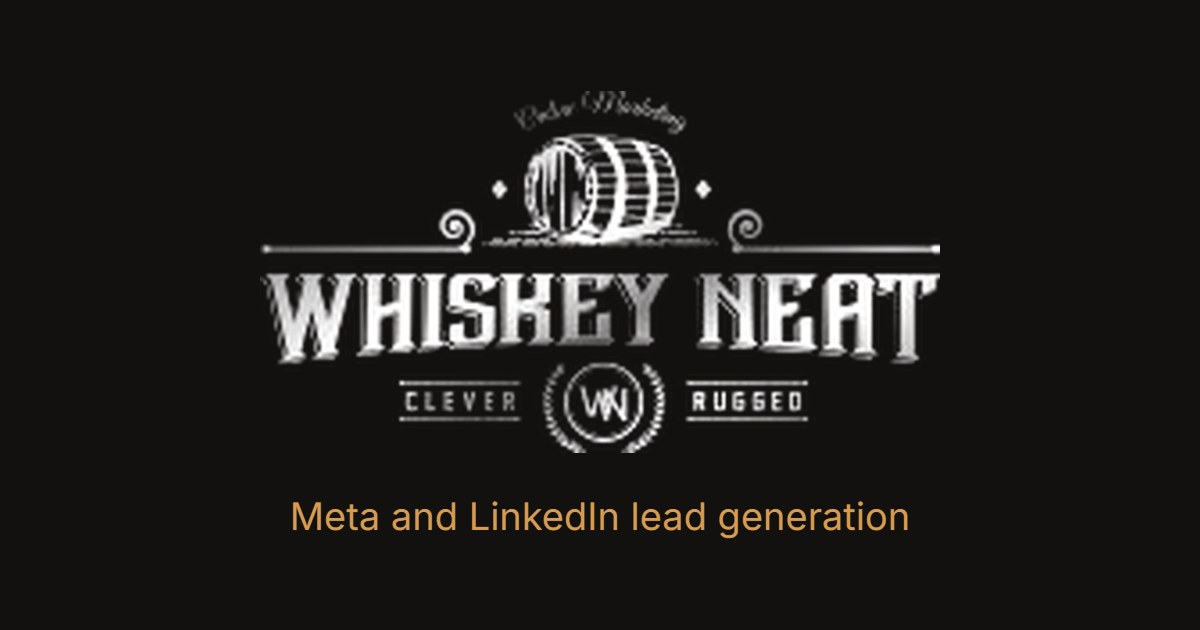
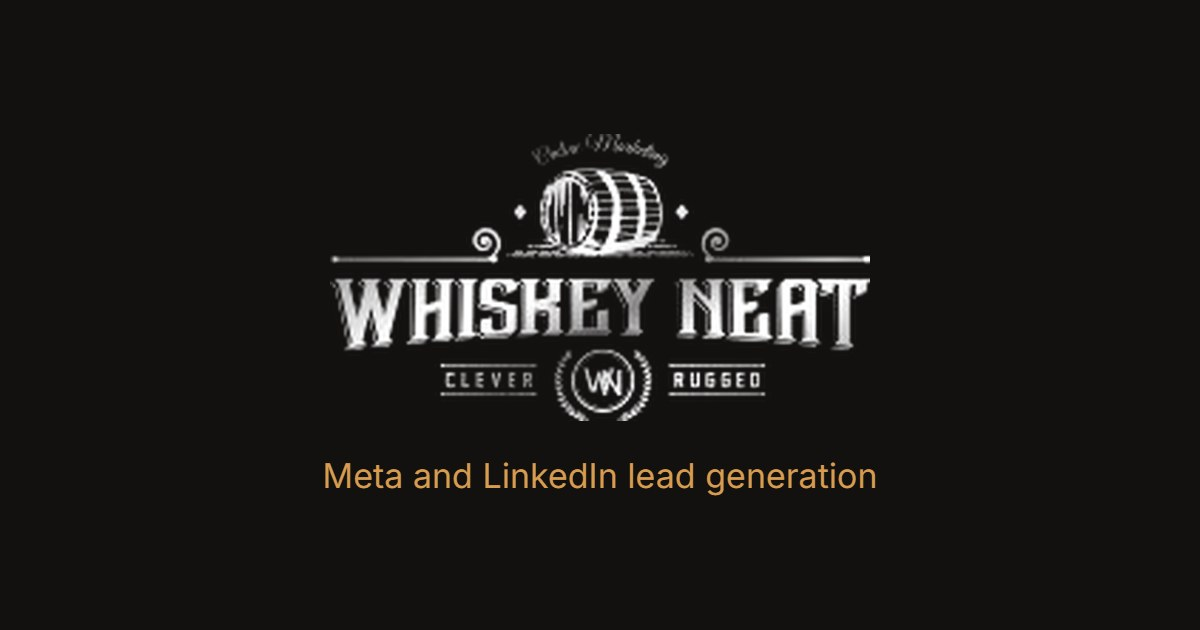
Preview card centred for Slack crop

Changed region(s): [[0.2158, 0.1508, 0.8017, 0.8746]]

diff --git a/index.html b/index.html
@@ -9,7 +9,7 @@
 <meta property="og:type" content="website">
 <meta property="og:title" content="Whiskey Neat">
 <meta property="og:description" content="Chuck Sharpsteen runs Meta and LinkedIn ads that bring more of the right leads to coaches, course creators and B2B companies.">
-<meta property="og:image" content="https://whiskeyneat.com/og.jpg">
+<meta property="og:image" content="https://whiskeyneat.com/og.jpg?v=2">
 <meta property="og:image:type" content="image/jpeg">
 <meta property="og:image:width" content="1200">
 <meta property="og:image:height" content="630">
@@ -17,7 +17,7 @@
 <meta name="twitter:card" content="summary_large_image">
 <meta name="twitter:title" content="Whiskey Neat">
 <meta name="twitter:description" content="Chuck Sharpsteen runs Meta and LinkedIn ads that bring more of the right leads to coaches, course creators and B2B companies.">
-<meta name="twitter:image" content="https://whiskeyneat.com/og.jpg">
+<meta name="twitter:image" content="https://whiskeyneat.com/og.jpg?v=2">
 <link rel="icon" href="/logo.png" type="image/png">
 <meta name="color-scheme" content="light dark">
 <link rel="preconnect" href="https://fonts.googleapis.com">
